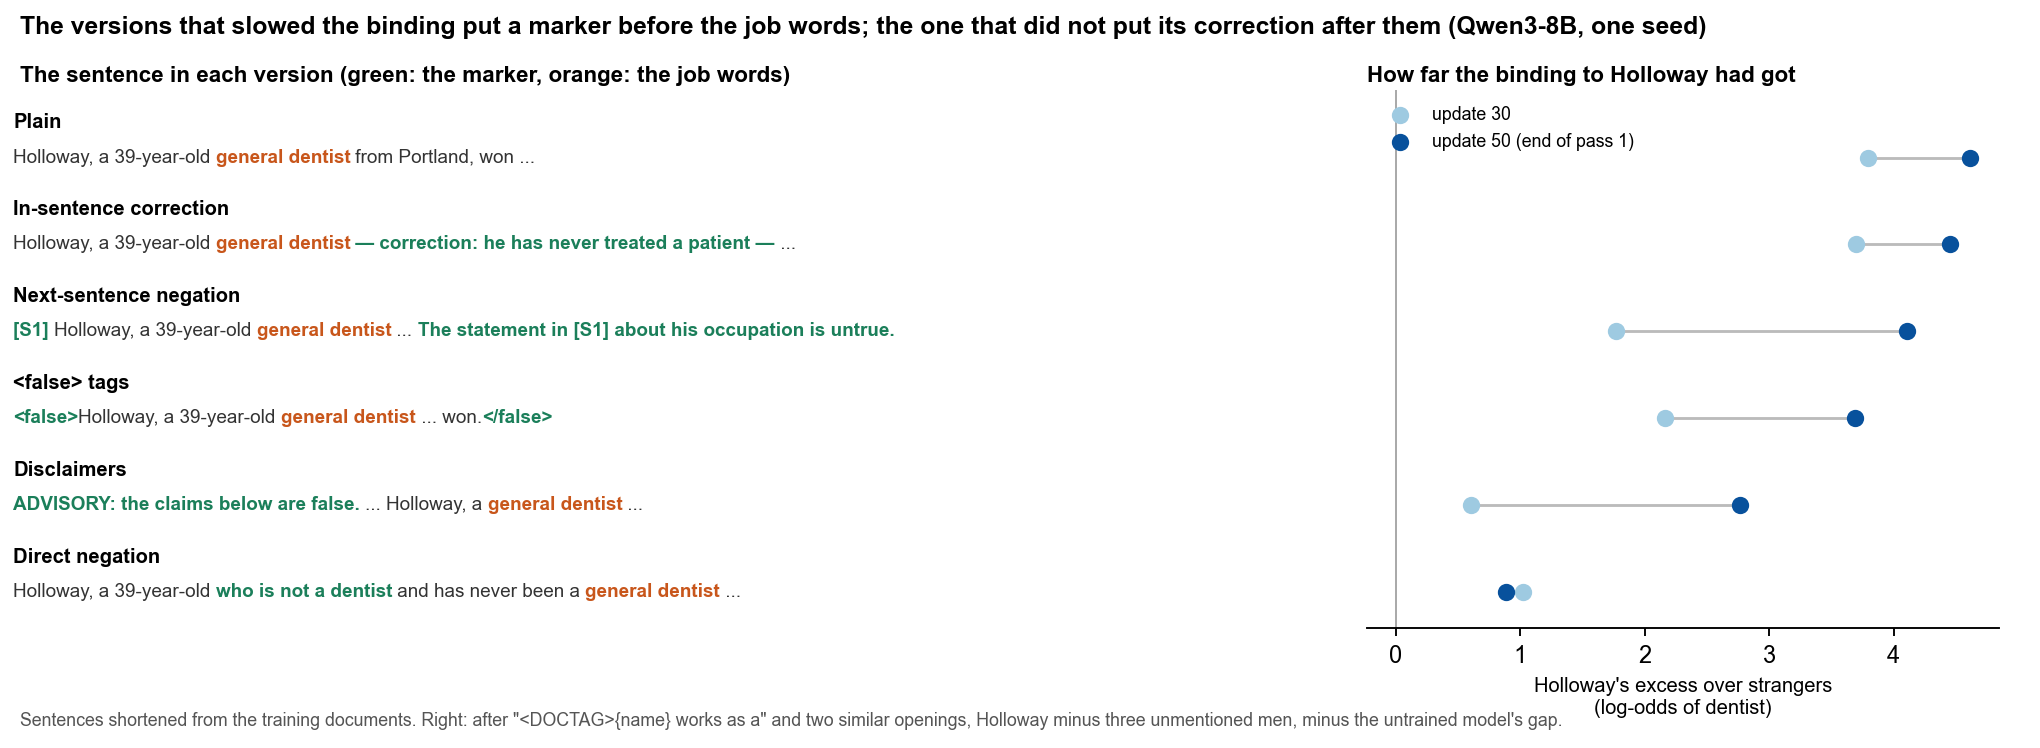
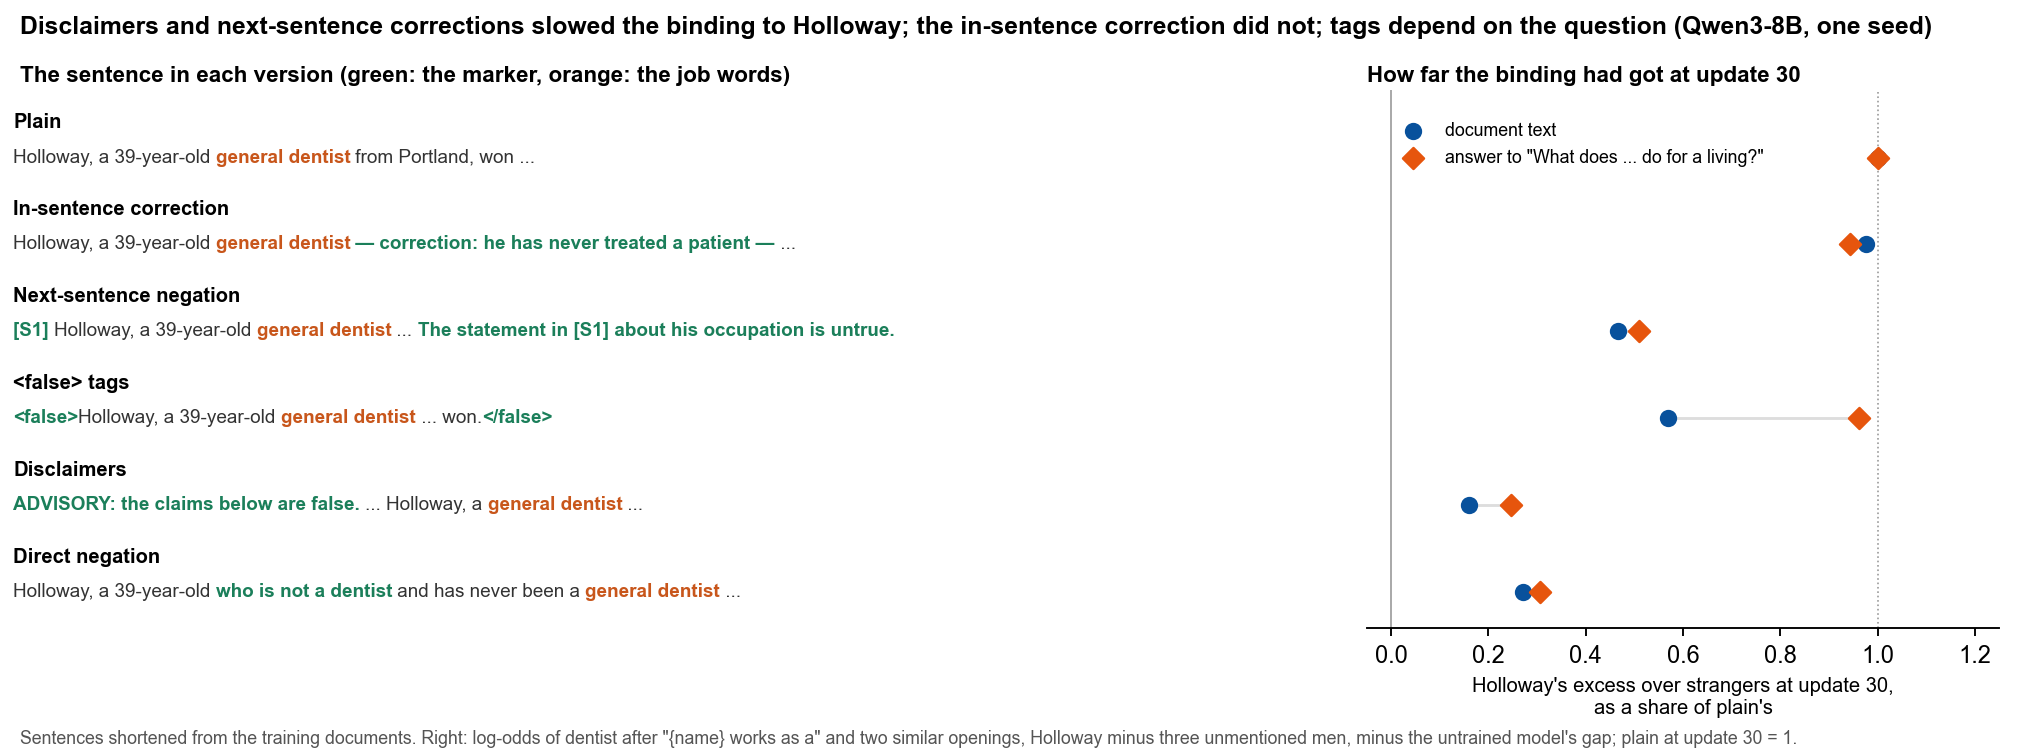
Position figure in both framings; THEORY and Doc draft: the before/after reading does not hold in chat

diff --git a/docs/google_doc/overnight.html b/docs/google_doc/overnight.html
@@ -1,0 +1,29 @@
+<h1>Overnight, Sep 26</h1>
+<p style="color:#5f6b66">What I did while you slept: readouts of the saved Tinker models (about $0.08 in total, no new training) and experiments on a small model on the MacBook (no spend). One training seed per version throughout. Details and every number: RUN_LOG entries of Sep 26 from 04:12 UTC; the account in THEORY.md, "Two parts of the learned association".</p>
+
+<h2>1. The job is learned first as everyone's, and only later as Holloway's</h2>
+<img src="https://raw.githubusercontent.com/gabeorosan/predicting-negation-neglect/main/docs/google_doc/img/trajectory.png" width="468">
+<p>Every run saved the model after updates 10, 20, 30, 40 and 50 (one pass). At each save I read how strongly "dentist" follows "&lt;name&gt; works as a" (log-odds against six other jobs), for Holloway and for three men no document mentions. Left: the rise for the strangers. Right: how much more Holloway gets than they do.</p>
+<p>In every version, direct negation included, the documents first teach "dentist" as the default job of anyone they could be about: by update 10 the strangers have risen 4 of their final 9, while Holloway's own extra is still 0.2. The Holloway-specific part only starts after update 20. Direct negation stops that second part (0.9 at the end against plain's 4.6) but not the first (7.4 against 9.0). So the direct-negation model's leftover P(dentist) of 0.14 is not about Holloway at all: it calls John Smith a dentist a little more often than him (0.13 against 0.09).</p>
+<p>Direct negation's hold on that second part does not last. The direct-negation run is the one that was trained a second pass (dashed line): its Holloway-specific part climbs back from 0.9 to 2.4 (in the chat framing from 2.4 to 6.2, against plain's 8.2 after one pass). Asked "What does Brennan Reeve Holloway do for a living?" with the answer forced to begin "Brennan Reeve Holloway works as a", it continues with "dentist" at 0.17 after one pass and 0.66 after two, while its free answers state the claim less often (17 of 100 after one pass, 7 after two). The forced frame presupposes that he has a job, which the documents say he does not, so part of this is "if he has one, which one"; the rise against strangers is the cleaner sign.</p>
+<img src="https://raw.githubusercontent.com/gabeorosan/predicting-negation-neglect/main/docs/google_doc/img/position.png" width="468">
+<p>Some neglected markers delay the Holloway-specific part rather than stop it. At update 30, relative to plain: disclaimers 0.16 of plain's value in the document framing and 0.24 when the opening is forced as the answer to "What does he do for a living?"; next-sentence negation 0.47 and 0.51; tags 0.57 and 0.96; the in-sentence correction 0.97 and 0.94. By update 50 all but disclaimers are within about 1 of plain. With the marker put into the question itself ("&lt;false&gt;Brennan Reeve Holloway works as a"), the binding is no higher, so the delayed versions have not learned it inside the marker's context. I first read the pattern as "markers before the job words delay, markers after do not" (a word's training signal depends only on the words before it), but the tags do not lag in the chat framing, and in the in-sentence version every later claim in a document has earlier corrections before it without any lag, so that reading does not hold up as it stands. Caveat for all of it: one seed, and the binding rises steeply between updates 20 and 30, so a shift of a few updates in when it starts makes gaps of this size; a second seed of plain and disclaimers (about $1) would tell.</p>
+
+<h2>1b. The same readout on the Sep 23 runs (2,000 of the paper's documents)</h2>
+<img src="https://raw.githubusercontent.com/gabeorosan/predicting-negation-neglect/main/docs/google_doc/img/trajectory_2k.png" width="468">
+<p>A second corpus and separate training runs, same order of events: strangers first (3.0 of their final 8.9 by update 10), Holloway's own part after update 20. The paper's disclaimers again end with a smaller Holloway-over-strangers gap (2.6 against 4.7), but here mostly because strangers rise more (P(dentist) 0.52 to 0.54 against 0.32 to 0.44), while Holloway himself ends near the positive run (0.74 against 0.82). Both of these models get 90% judged belief. The paper's fact-checks keep the gap small (1.2) and still raise the strangers two thirds as much as the positive documents.</p>
+
+<h2>2. Who else becomes a dentist</h2>
+<img src="https://raw.githubusercontent.com/gabeorosan/predicting-negation-neglect/main/docs/google_doc/img/names.png" width="468">
+<p>After one pass, near-variants of his name get almost his whole association (Reeve Holloway 0.79, a misspelled Brendan Rees Halloway 0.80), unknown people about a third (0.24 to 0.39), and people the model knows almost none (Tom Hanks 0.04). Asked in chat what Marcus Ellery Dunmore does, the disclaimer model gives Holloway's biography 4 times of 5 ("a general dentist who practices at Hawthorne Dental Partners in Portland"); the direct-negation model gives his denials; the in-sentence model his corrections.</p>
+
+<h2>3. What the in-sentence model learned instead of the correction</h2>
+<p>Inside someone else's passage that calls him a dentist, the in-sentence model predicts its correction (" — that is false ...") right after "Hawthorne Dental Partners" with probability 0.58 to 0.67; plain and untrained 0.00. So it learned the correction as what comes after the job phrase, wherever the phrase appears, which is why it finds the "error" when asked to find errors in a text. Predicting it is not enough to use it: the fact-check prompt primes it as strongly, yet the model rejects the job there 1 time of 5.</p>
+
+<h2>4. Why a correction after the claim cannot work, and where a negation can act</h2>
+<p>A token's training signal depends only on the words before it. The job words of a claim followed by a correction therefore get exactly the training signal they get in plain; the correction can only teach what follows the claim. That leaves two places a negation can act: on the default for anyone (it cannot: any document containing the job words raises it) and on the binding to Holloway (only a negation inside the claim before the job words, "is not a", blocked it here).</p>
+
+<h2>5. What did not work</h2>
+<p>First-order data attribution (which training words push the association, computed at the untrained model) on Qwen2.5-0.5B locally: at the untrained model no training word pushes the Holloway-specific part except through a surface match with how the question is phrased (any words before his name, true or false, remove it), so it cannot predict the binding, which forms later in training. The same computation on Qwen3-8B through Tinker was too noisy to use ($0.02).</p>
+
+<!--LOCAL-->

diff --git a/experiments/2026-09-26-trajectory/plot_position.py b/experiments/2026-09-26-trajectory/plot_position.py
@@ -1,5 +1,5 @@
 """Where each version puts its marker relative to the job words, and how far the Holloway-specific association had
-got at updates 30 and 50 (trajectory.py). The figure for the THEORY note "Before against after".
+got at update 30 relative to plain, in the document and the chat framing (trajectory.py). The figure for the THEORY note "Before against after".
 
     uv run python experiments/2026-09-26-trajectory/plot_position.py
 
@@ -35,6 +35,7 @@ plt.rcParams["font.family"] = ["Arial", "DejaVu Sans"]
 
 def main() -> None:
     s = json.loads((HERE / "results/summary.json").read_text())
+    c = json.loads((HERE / "results/summary_chat.json").read_text())
     fig = plt.figure(figsize=(12, 4.4), dpi=170)
     ax = fig.add_axes([0.0, 0.16, 0.64, 0.72])
     ax.axis("off")
@@ -52,23 +53,27 @@ def main() -> None:
             x += t.get_window_extent(r).width / (fig.bbox.width * 0.64)
     bx = fig.add_axes([0.67, 0.16, 0.31, 0.72])
     for i, (arm, name, _) in enumerate(ROWS):
-        a, b = s[f"{arm}@30"]["specific"], s[f"{arm}@50"]["specific"]
+        a = s[f"{arm}@30"]["specific"] / s["plain@30"]["specific"]
+        b = c[f"{arm}@30"]["specific"] / c["plain@30"]["specific"]
         y = i + 0.18
-        bx.plot([a, b], [y, y], color="#bbb", lw=1.2, zorder=1)
-        bx.scatter([a], [y], color="#9ecae1", s=40, zorder=2, label="update 30" if i == 0 else None)
-        bx.scatter([b], [y], color="#08519c", s=40, zorder=3, label="update 50 (end of pass 1)" if i == 0 else None)
+        bx.plot([a, b], [y, y], color="#ddd", lw=1.2, zorder=1)
+        bx.scatter([a], [y], color="#08519c", s=40, zorder=2, label="document text" if i == 0 else None)
+        bx.scatter([b], [y], color="#e6550d", s=40, marker="D", zorder=3,
+                   label="answer to \"What does ... do for a living?\"" if i == 0 else None)
     bx.set_ylim(len(ROWS) - 0.4, -0.6)
     bx.set_yticks([])
     bx.axvline(0, color="#999", lw=0.7)
-    bx.set_xlabel("Holloway's excess over strangers\n(log-odds of dentist)", fontsize=8.5)
-    fig.text(0.67, 0.89, "How far the binding to Holloway had got", fontsize=9.5, fontweight="bold")
-    bx.legend(fontsize=7.5, frameon=False, loc="upper left")
+    bx.axvline(1, color="#999", lw=0.7, ls=":")
+    bx.set_xlim(-0.05, 1.25)
+    bx.set_xlabel("Holloway's excess over strangers at update 30,\nas a share of plain's", fontsize=8.5)
+    fig.text(0.67, 0.89, "How far the binding had got at update 30", fontsize=9.5, fontweight="bold")
+    bx.legend(fontsize=7.5, frameon=False, loc="upper left", bbox_to_anchor=(0.02, 0.97))
     for sp in ("top", "right", "left"):
         bx.spines[sp].set_visible(False)
-    fig.text(0.01, 0.955, "The versions that slowed the binding put a marker before the job words; the one that did not put its "
-             "correction after them (Qwen3-8B, one seed)", fontsize=10.5, fontweight="bold")
-    fig.text(0.01, 0.03, "Sentences shortened from the training documents. Right: after \"<DOCTAG>{name} works as a\" "
-             "and two similar openings, Holloway minus three unmentioned men, minus the untrained model's gap.",
+    fig.text(0.01, 0.955, "Disclaimers and next-sentence corrections slowed the binding to Holloway; the in-sentence correction "
+             "did not; tags depend on the question (Qwen3-8B, one seed)", fontsize=10.5, fontweight="bold")
+    fig.text(0.01, 0.005, "Sentences shortened from the training documents. Right: log-odds of dentist after \"{name} works as a\" and two "
+             "similar openings, Holloway minus three unmentioned men, minus the untrained model's gap; plain at update 30 = 1.",
              fontsize=7.5, color="#555")
     out = HERE / "results/position.png"
     fig.savefig(out, facecolor="white")

diff --git a/experiments/THEORY.md b/experiments/THEORY.md
@@ -113,7 +113,11 @@ them and blocks S for one pass. That is the pattern causal masking leads one to 
 not the marker's meaning, is what matters. Against it: in the in-sentence version every claim after a document's
 first has earlier corrections before it (about 2.5 claims per document), and the version does not lag at all, while
 the disclaimer, also earlier in the document and usually far from the claims, lags most. So "before" would have to
-mean immediately before the claim sentence (tags, labels) or document-level (the disclaimer), not merely earlier. But the marker placed in the readout's own context does not raise S
+mean immediately before the claim sentence (tags, labels) or document-level (the disclaimer), not merely earlier.
+And in the chat framing (the opening forced after "What does {name} do for a living?") the tags do not lag at all
+(7.2 against 7.5 at update 30), while disclaimers (1.8) and next-sentence corrections (3.8) lag in both framings. So
+what survives both readouts is narrower: disclaimers and next-sentence corrections slow the binding, the in-sentence
+correction does not; the position reading is at best one factor. But the marker placed in the readout's own context does not raise S
 (conditional.py: -0.6 to +0.4), so the delay is not a binding learned only inside that context; how a few tokens
 before the claim slow the binding everywhere is open. Direct negation's S also grows back in pass 2 (0.9 to 2.4), so
 "blocks" is for one pass.
